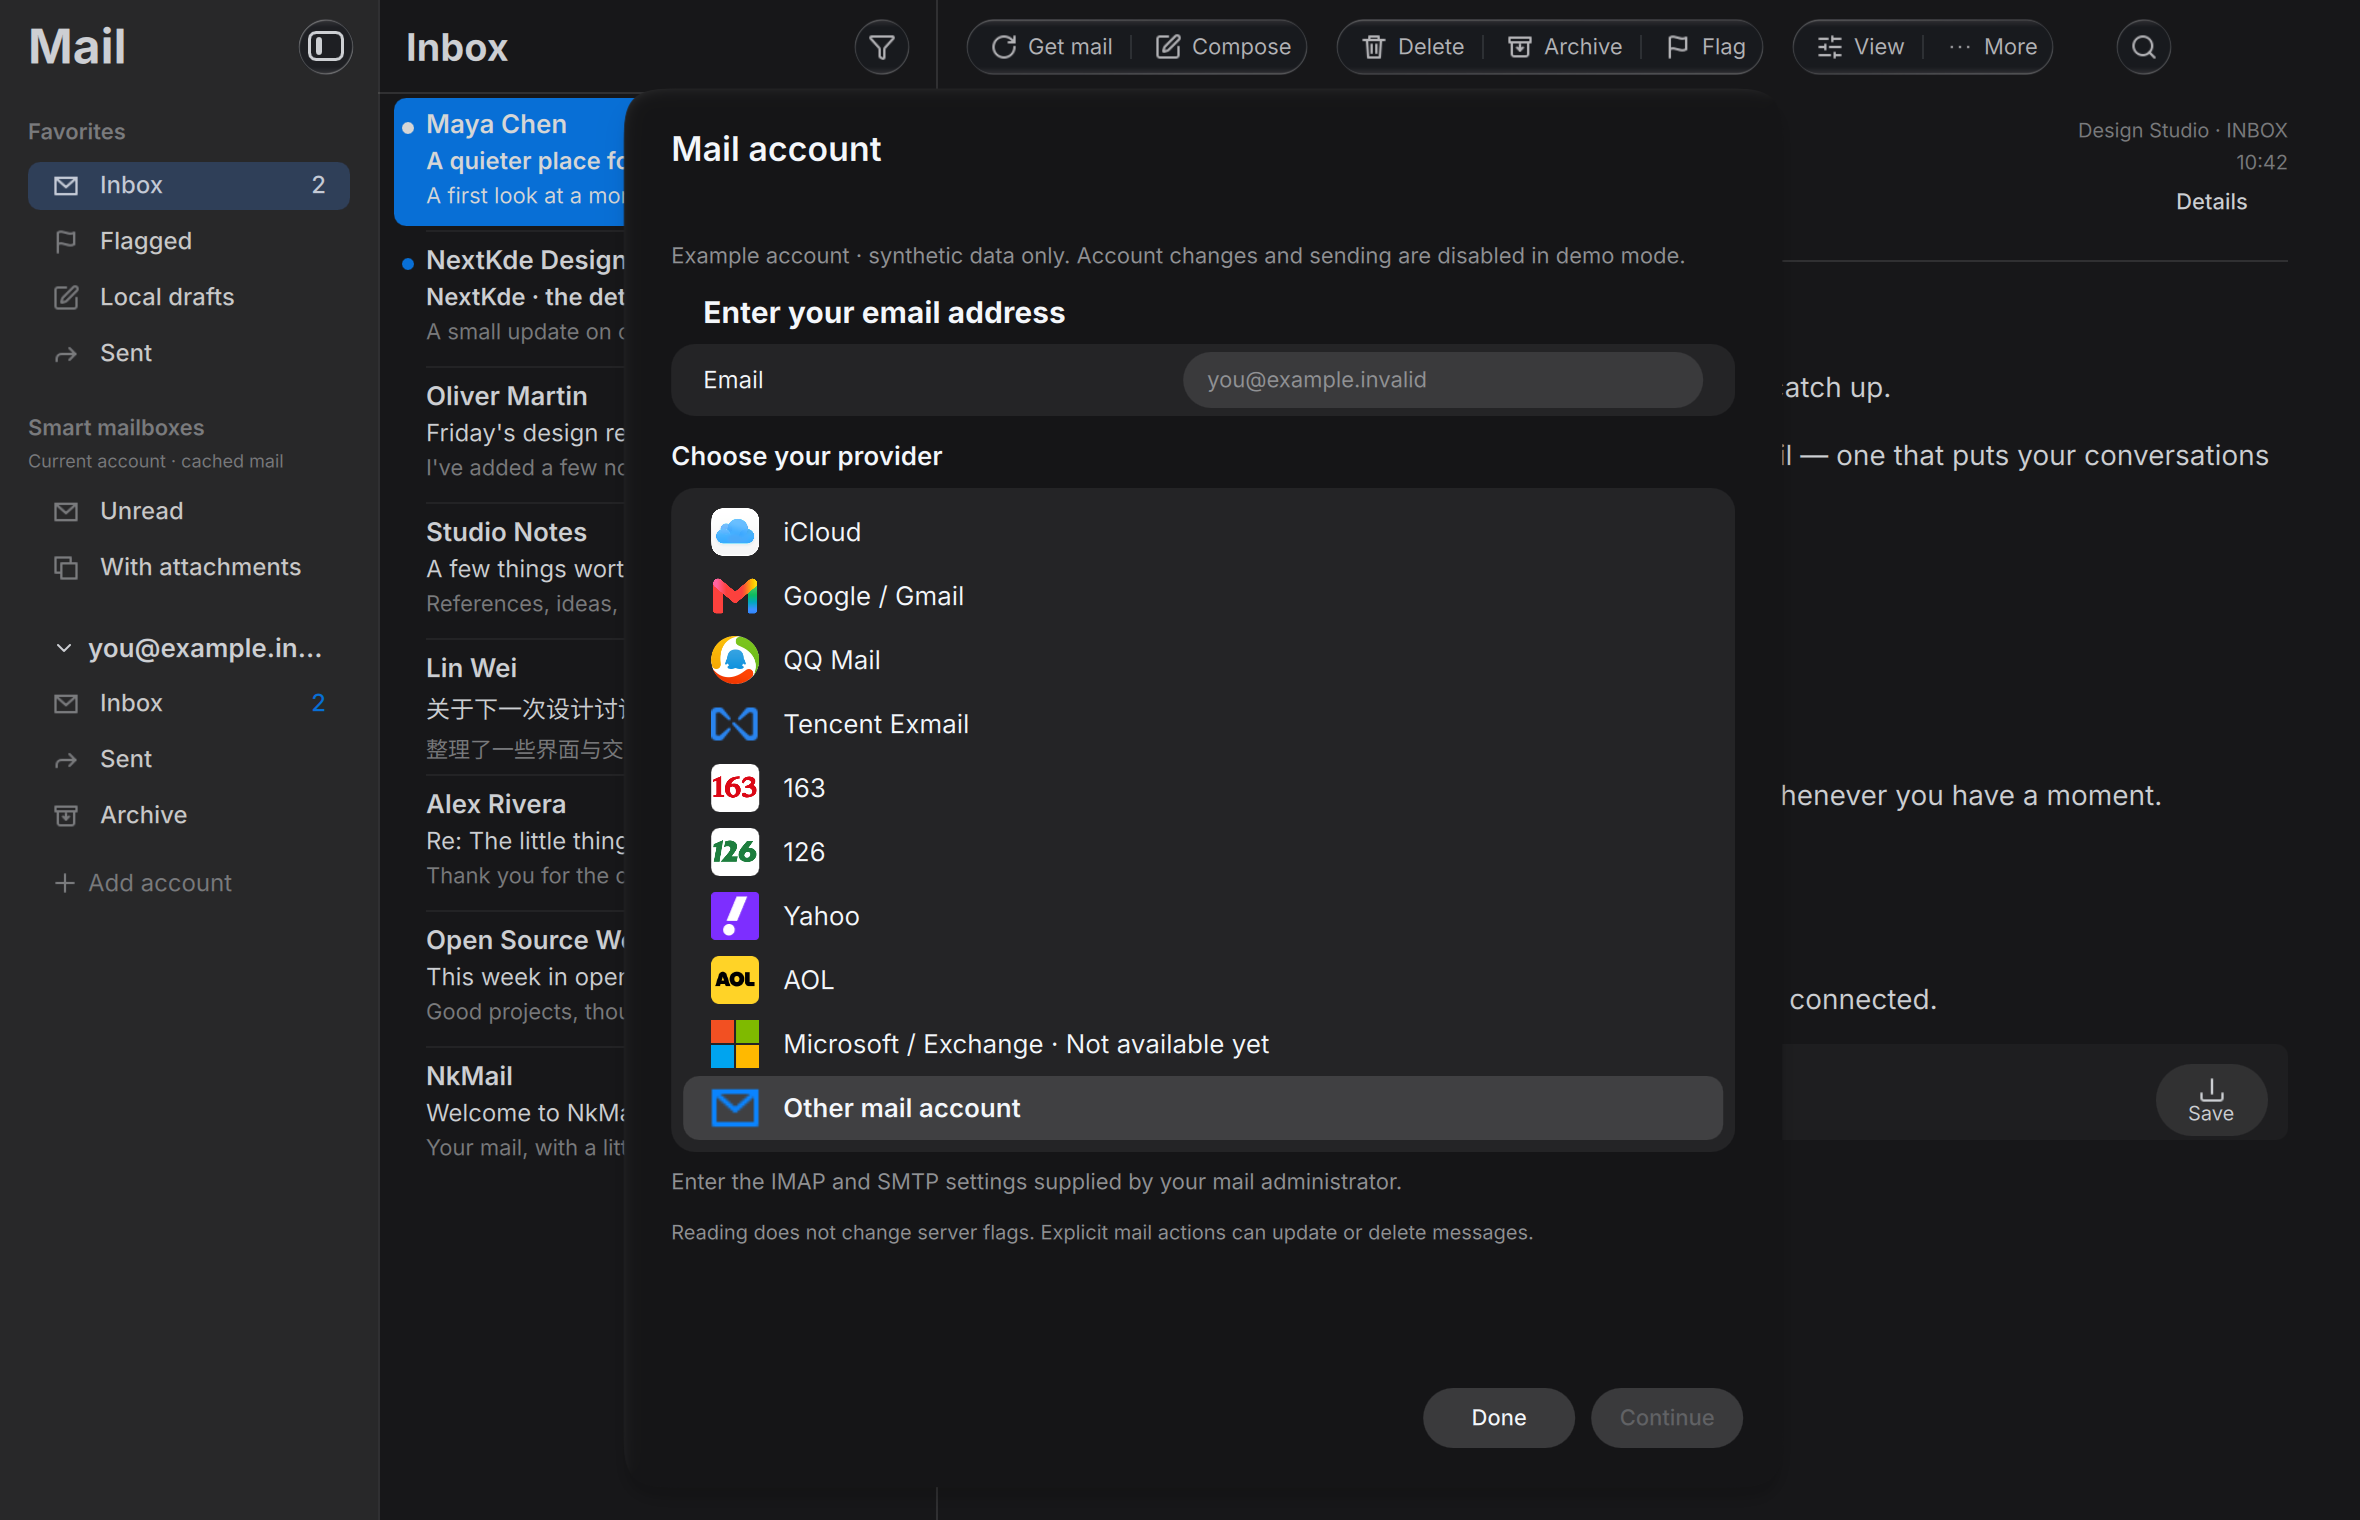
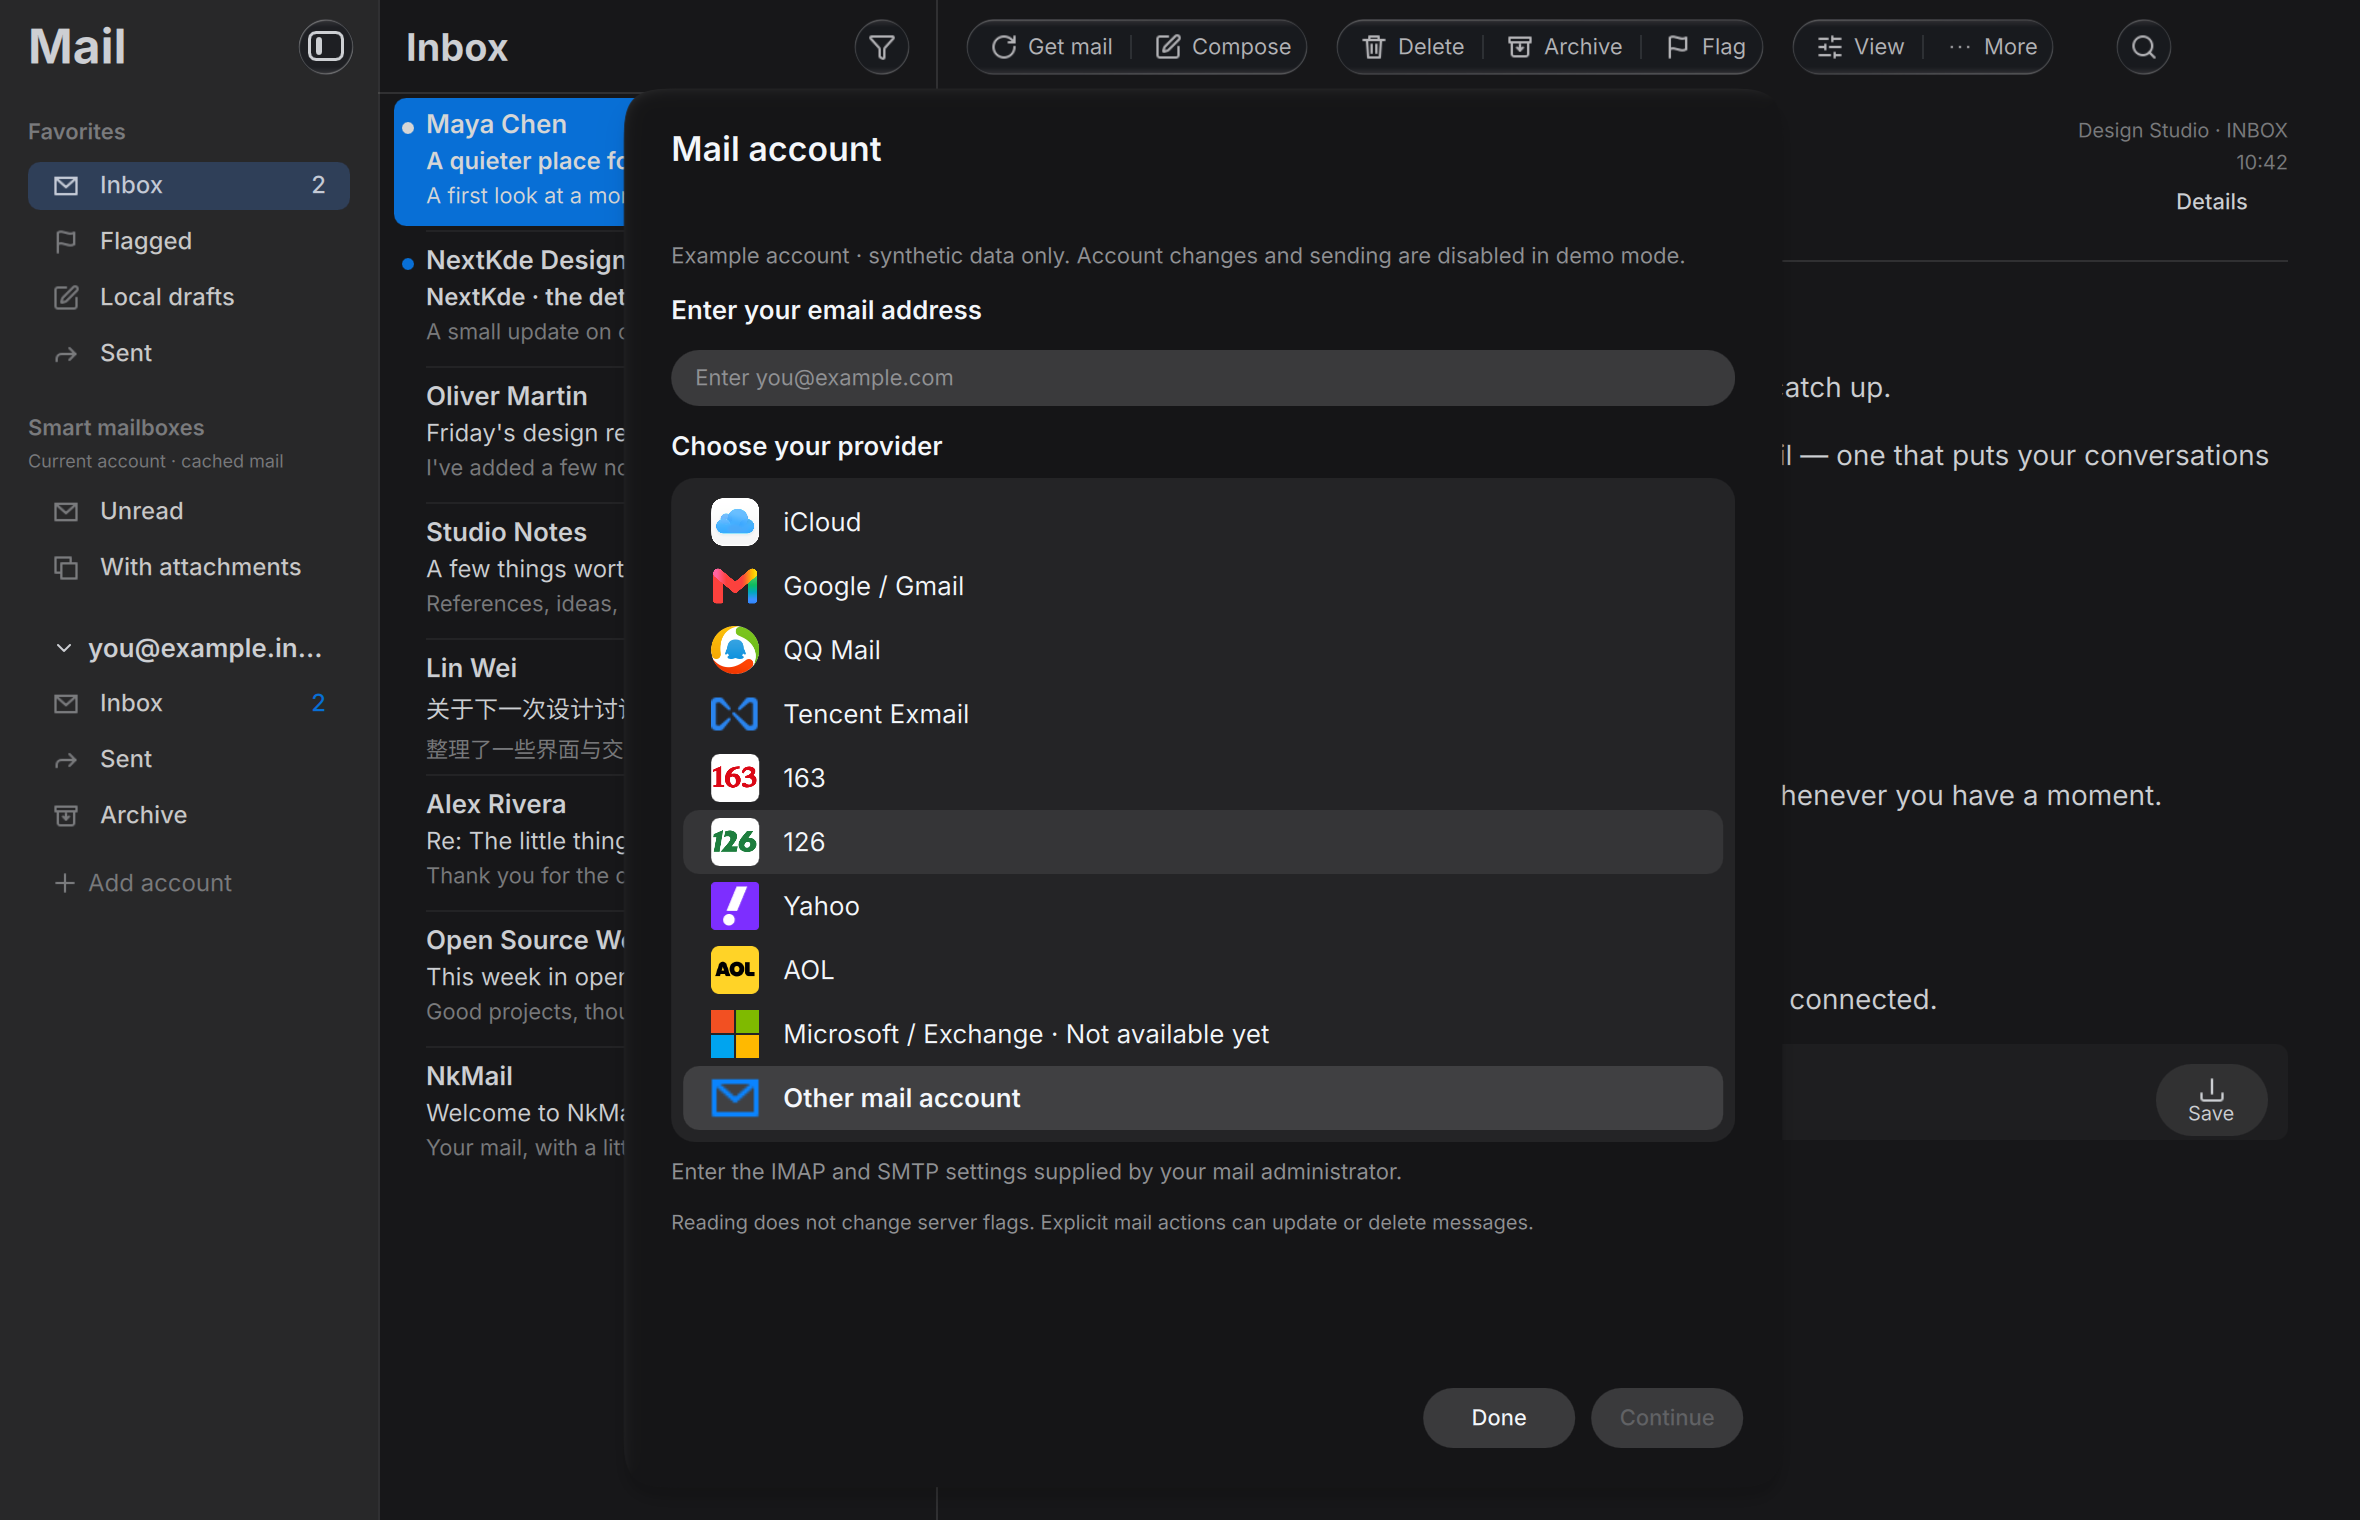
Use full-width email input in account setup

Changed region(s): [[0.2784, 0.2474, 0.7424, 0.8349], [0.2784, 0.1855, 0.464, 0.2164], [0.5258, 0.2474, 0.6186, 0.2783]]

diff --git a/qml/AccountDialog.qml b/qml/AccountDialog.qml
@@ -121,11 +121,32 @@ LiquidDialog {
                     : qsTr("Connect one account with an application password. TLS certificate verification is always enabled.")
                 color: AppTheme.mutedText; font.pixelSize: 11; Layout.fillWidth: true; wrapMode: Text.Wrap
             }
-            SettingsGroup {
+            Text {
                 visible: root.step < 2
-                title: root.step === 0 ? qsTr("Enter your email address") : qsTr("Identity")
+                text: root.step === 0 ? qsTr("Enter your email address") : qsTr("Email")
+                Layout.fillWidth: true
+                color: AppTheme.text
+                font.pixelSize: 13
+                font.weight: Font.DemiBold
+            }
+            KosTextField {
+                id: addressField
+                objectName: "accountAddress"
+                visible: root.step < 2
+                Layout.fillWidth: true
+                implicitHeight: MailStyle.fieldHeight
+                cornerRadius: height / 2
+                specificationForm: true
+                enabled: !root.submitting
+                readOnly: root.mail.demo || root.submitting
+                Accessible.name: qsTr("Email")
+                placeholderText: qsTr("Enter you@example.com")
+                onTextEdited: providerChoice.currentIndex = Profiles.indexForAddress(text)
+            }
+            SettingsGroup {
+                visible: root.step === 1
+                title: qsTr("Identity")
                 SettingsItem { visible: root.step === 1; title: qsTr("Name"); KosTextField { id: nameField; objectName: "accountName"; Layout.fillWidth: true; implicitWidth: 260; implicitHeight: MailStyle.fieldHeight; cornerRadius: height / 2; specificationForm: true; enabled: !root.submitting; readOnly: root.mail.demo || root.submitting; Accessible.name: qsTr("Name") } }
-                SettingsItem { title: qsTr("Email"); KosTextField { id: addressField; objectName: "accountAddress"; onTextEdited: providerChoice.currentIndex = Profiles.indexForAddress(text); Layout.fillWidth: true; implicitWidth: 260; implicitHeight: MailStyle.fieldHeight; cornerRadius: height / 2; specificationForm: true; enabled: !root.submitting; readOnly: root.mail.demo || root.submitting; Accessible.name: qsTr("Email"); placeholderText: "you@example.invalid" } }
                 SettingsItem { visible: root.step === 1; title: qsTr("Username"); KosTextField { id: usernameField; Layout.fillWidth: true; implicitWidth: 260; implicitHeight: MailStyle.fieldHeight; cornerRadius: height / 2; specificationForm: true; enabled: !root.submitting; readOnly: root.mail.demo || root.submitting; Accessible.name: qsTr("Username") } }
                 SettingsItem {
                     visible: root.step === 1; title: qsTr("App password"); description: qsTr("Stored passwords are never displayed.")

diff --git a/translations/nkmail_zh_CN.ts b/translations/nkmail_zh_CN.ts
@@ -3,6 +3,10 @@
     <context>
         <name>AccountDialog</name>
         <message>
+            <source>Enter you@example.com</source>
+            <translation>请输入you@example.com</translation>
+        </message>
+        <message>
             <location filename="../qml/AccountDialog.qml" line="16" />
             <source>Mail account</source>
             <translation>邮件账号</translation>

diff --git a/translations/nkmail_en.ts b/translations/nkmail_en.ts
@@ -3,6 +3,10 @@
     <context>
         <name>AccountDialog</name>
         <message>
+            <source>Enter you@example.com</source>
+            <translation>Enter you@example.com</translation>
+        </message>
+        <message>
             <location filename="../qml/AccountDialog.qml" line="16" />
             <source>Mail account</source>
             <translation>Mail account</translation>

diff --git a/GOAL.md b/GOAL.md
@@ -1,5 +1,10 @@
 # NkMail local delivery goal
 
+## Account address input layout · 2026-11-03
+
+- Removed the indented SettingsGroup label/row for email. A left-aligned heading now sits over one full-width shared text field, with Chinese placeholder `请输入you@example.com`. The same address field continues to drive provider selection and saved configuration.
+- Host build, UI, i18n and translation checks passed (3/3, 11.07s); synthetic screenshot inspected.
+
 ## iCloud logo clarity · 2026-11-03
 
 - Replaced the low-resolution ICO with Apple’s 180×180 touch icon, resolving its URL against the iCloud page’s HTML base. Display geometry stays unchanged; the bundled asset remains offline. Host build and UI regression passed (11.19s); updated screenshot inspected.
